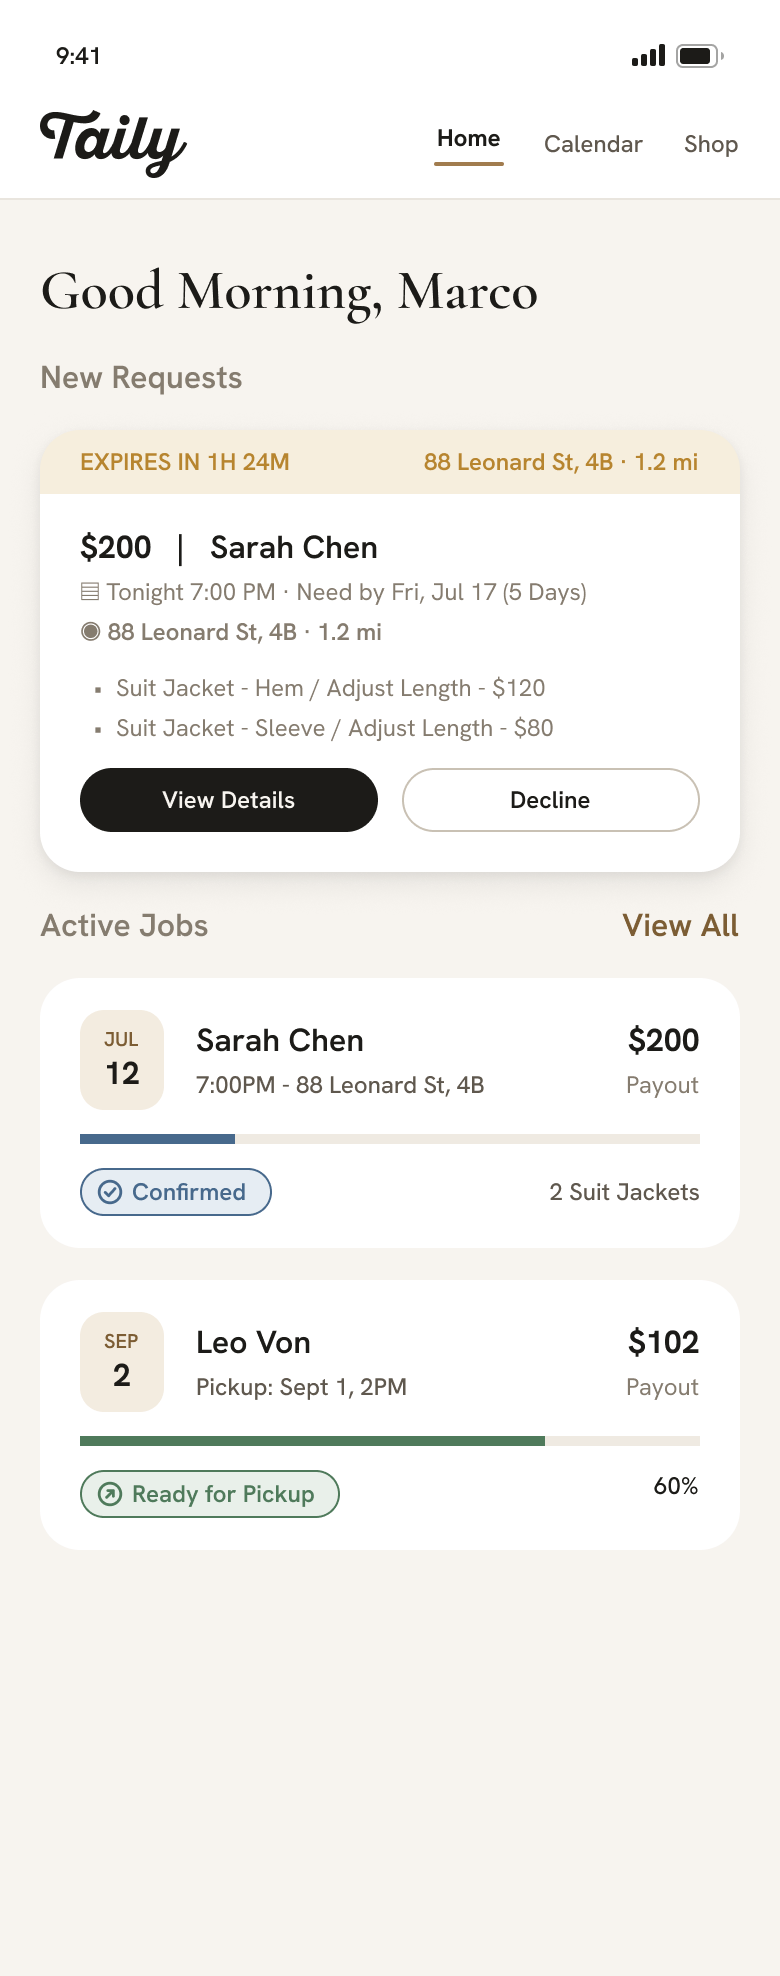
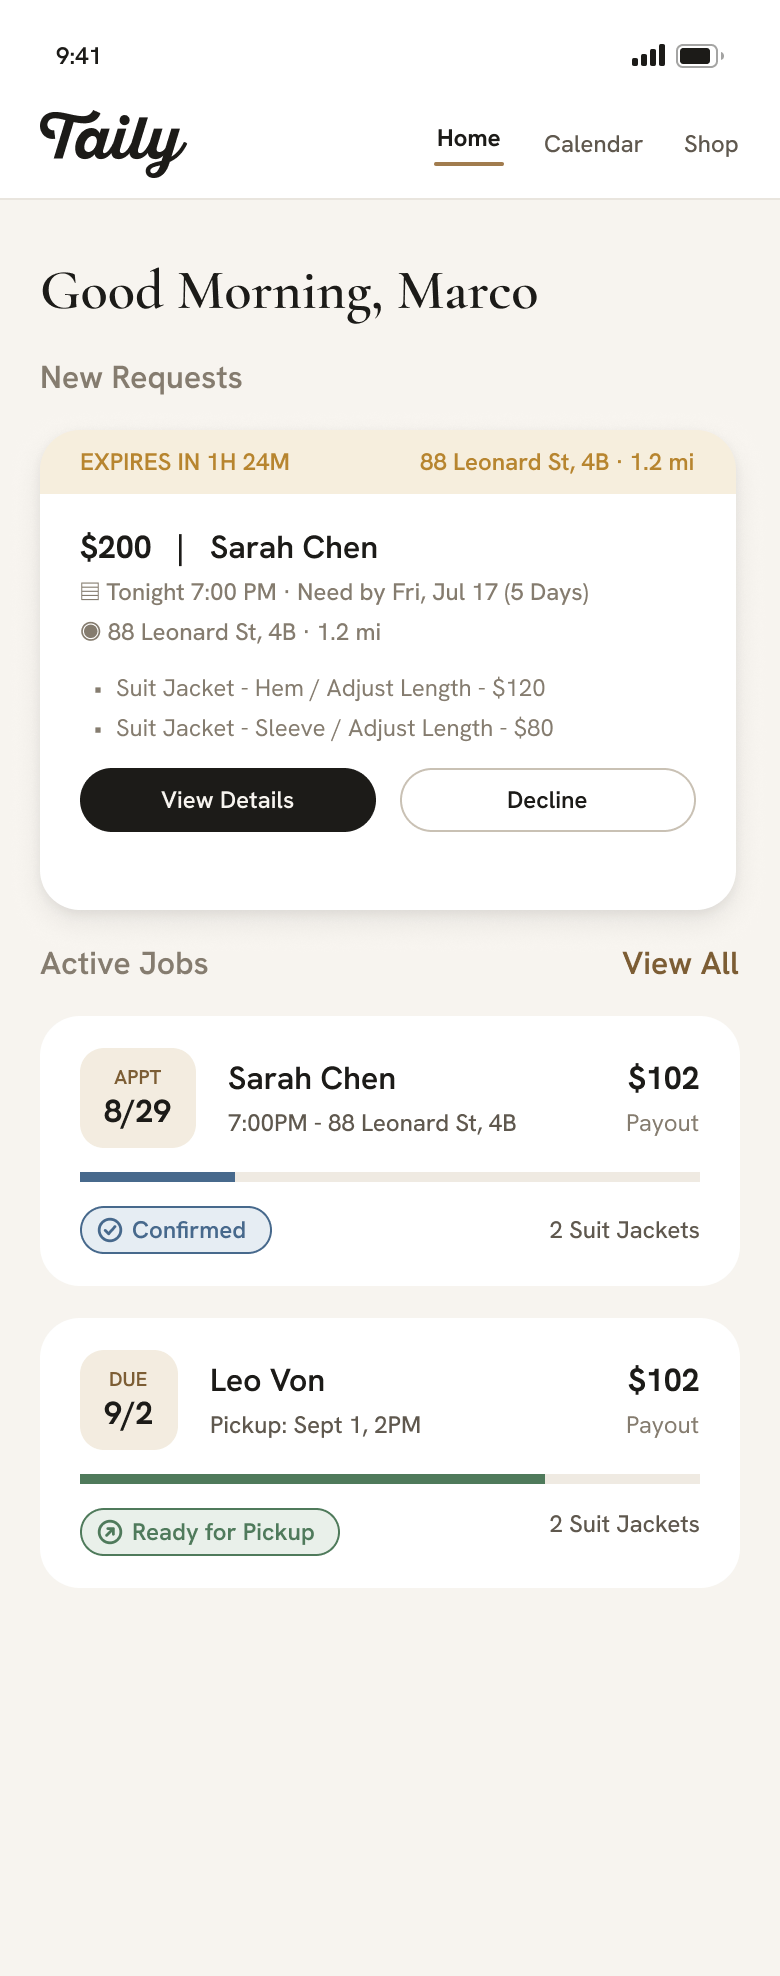
ux-loop: round 11 — Appt_Request component, T02 Request New Time, frames as source of truth
Kevin's tailor edits: T01 request card per the Appt_Request component
(Default / NewTime; View Details + Decline on both, Withdraw lives on
T02); T02 "Request New Time" opens the 02.1 wheel as "Request New Time /
Propose · <day> at <time>" (proposeNewTime, shared with T03A) and lands on
T01; "Done today" → "Past Jobs"; T05 secondary CTA "Edit Details"; T02
Accepted offers Back to Home. Six frames Kevin deleted (T03 Booking
Confirmed, T03A base, T05 Removed, T06 Questions, T06 Awaiting, T05
Resend) leave screens.json / refs / min-heights; their routes stay live.
UX-LOOP.md round 11 carries the redundant / conflicting frame review.

diff --git a/js/screens/t02-appointment-request.js b/js/screens/t02-appointment-request.js
@@ -31,10 +31,11 @@
 
 import { register, render as go, back } from '../app.js';
 import { summaryCard, garmentCard, cta, toast } from '../components.js';
-import { money, garmentAmount } from '../data.js';
+import { money, garmentAmount, fmtDay } from '../data.js';
+import { proposeNewTime } from './t03a-decline-request.js';
 import { state } from '../state.js';
 import { tailorChrome, wireTailorNav, payoutRows } from '../tailor-components.js';
-import { current, jobView, tailorOf, isFixture, isSeed, restartTimer, stampAcceptedPayout, T, CUSTOMER, REQUEST_ROWS } from '../tailor-data.js';
+import { current, jobView, tailorOf, isFixture, isSeed, restartTimer, stampAcceptedPayout, proposalDays, T, CUSTOMER, REQUEST_ROWS } from '../tailor-data.js';
 
 /** The booked order as ViewOnly cards (shared with T03). */
 export function bookedCards(v) {
@@ -69,12 +70,13 @@ export function viewRequest(s, mode = null) {
   const actions = expired
     ? cta('Back to Home', { attrs: 'data-act="home"' })
     : accepted
-      ? cta('Accepted', { attrs: 'data-act="accept"' })
+      ? cta('Back to Home', { attrs: 'data-act="home"' })   /* round 11: the Accepted frame's single CTA */
       : proposed
         ? `${cta('Withdraw Proposal', { attrs: 'data-act="withdraw"' })}
     ${cta('Decline', { variant: 'secondary', attrs: 'data-act="decline"' })}`
         : `${cta(`Accept Request · ${v.money.payout}`, { attrs: 'data-act="accept"' })}
-    ${cta('Decline', { variant: 'secondary', attrs: 'data-act="decline"' })}`;
+    ${cta('Decline', { variant: 'secondary', attrs: 'data-act="decline"' })}
+    ${cta('Request New Time', { variant: 'secondary', attrs: 'data-act="new-time"' })}`;
   return `${tailorChrome('home')}
 <div class="body" data-s="t02-appointment-request">
   <div class="t-header">
@@ -113,6 +115,14 @@ export function wire(root) {
     go('t03-request-accepted', { replace: true });   // R2-T-11: back never re-offers Accept
   });
   root.querySelector('[data-act="decline"]')?.addEventListener('click', () => go('t03a-decline-request'));
+  /* round 11 (Kevin): propose another time straight from the request —
+     the 02.1 wheel ("Propose · …"); a proposal lands on T01 */
+  root.querySelector('[data-act="new-time"]')?.addEventListener('click', () => {
+    const a = current(state);
+    if (!a || jobView(a).canon !== 'searching') { toast('This request is no longer open'); return; }
+    if (!proposalDays(a).length) { toast(`Sarah needs these by ${fmtDay(a.needBy)} — no later slot to offer`); return; }
+    proposeNewTime(a);
+  });
   root.querySelector('[data-act="withdraw"]')?.addEventListener('click', () => {
     const a = current(state);
     if (!a?.proposed || !T.withdrawProposal(a)) { toast('No proposal to withdraw'); return; }

diff --git a/js/tailor-components.js b/js/tailor-components.js
@@ -99,16 +99,15 @@ export function requestCard({
   const key = ` data-req="${idx}"`;
   /* R3-T-03: "$108 · 1 item" — two same-day requests differ by more than the payout */
   const head = `<b>${payout}</b>${count ? `<span class="req-card__count">· ${count}</span>` : ''}`;
-  const actions = proposed
-    ? `<p class="req-card__proposed">Time proposed · ${proposed} — waiting for Sarah</p>
-    <div class="req-card__actions">
-      ${ctaSmall('View Details', { attrs: `data-act="view-details"${key}` }).replace('class="cta-small"', 'class="cta-small cta-small--dark"')}
-      <button type="button" class="t-link req-card__withdraw" data-act="withdraw"${key}>Withdraw</button>
-    </div>`
-    : `<div class="req-card__actions">
+  /* Round 11 (Kevin's Appt_Request component, 659:6509): Default and
+     NewTime variants share the same actions — View Details + Decline;
+     NewTime adds the "Time proposed …" line under the items. Withdraw
+     lives on T02 (Withdraw Proposal), not on the card. */
+  const actions = `<div class="req-card__actions">
       ${ctaSmall('View Details', { attrs: `data-act="view-details"${key}` }).replace('class="cta-small"', 'class="cta-small cta-small--dark"')}
       ${ctaSmall('Decline', { attrs: `data-act="decline"${key}` })}
     </div>`;
+  const proposedLine = proposed ? `<p class="req-card__proposed">Time proposed · ${proposed} — waiting for Sarah</p>` : '';
   return `<article class="req-card"${key}>
   <div class="req-card__timer" data-act="time-passes"${key} title="Demo: time passes"><span data-timer${key}>${expires}</span><span>${where}</span></div>
   <div class="req-card__details">
@@ -116,7 +115,10 @@ export function requestCard({
       <div class="req-card__name">${head}<span>|</span><span>${name}</span></div>
       <div class="req-card__meta"><span>${meta}</span><span>◉ <b>${address}</b></span>${note ? `<span class="req-card__note">${note}</span>` : ''}</div>
     </div>
-    <ul class="req-card__items">${lines.map((l) => `<li>${l}</li>`).join('')}</ul>
+    <div class="req-card__items-block">
+      <ul class="req-card__items">${lines.map((l) => `<li>${l}</li>`).join('')}</ul>
+      ${proposedLine}
+    </div>
     ${actions}
   </div>
 </article>`;

diff --git a/css/tailor.css b/css/tailor.css
@@ -10,8 +10,6 @@
 /* frame heights: shorter than the 844 stage, or dead space below the
    last child (T01 / T03 end well under their frames, like 02) */
 .screen[data-screen="t01-home"] { min-height: 988px; }
-.screen[data-screen="t03-request-accepted"] { min-height: 897.5px; }
-.screen[data-screen="t03a-decline-request"] { min-height: 635.5px; }
 .screen[data-screen="t03b-job-cancelled"] { min-height: 415.5px; }
 .screen[data-screen="t07-job-ready"] { min-height: 640px; }
 .screen[data-screen="t08-job-complete"] { min-height: 595px; }
@@ -24,11 +22,6 @@
 .screen[data-screen="t03b-by-you"],
 .screen[data-screen="t03b-withdrawn"] { min-height: 415.5px; }
 .screen[data-screen="t03b-no-show"] { min-height: 394.5px; }
-.screen[data-screen="t05-removed"] { min-height: 1049.5px; }
-.screen[data-screen="t06-questions"] { min-height: 1554px; }   /* round 10: + Edit Details */
-/* round 10 (Kevin): Edit Details → resend sibling frames */
-.screen[data-screen="t06-awaiting"] { min-height: 1467px; }
-.screen[data-screen="t05-resend"] { min-height: 1263.33px; }
 .screen[data-screen="t07-waiting"] { min-height: 640px; }
 .screen[data-screen="t10-messages"] { min-height: 1103px; }
 [data-s="t03b-job-cancelled"] .status-hero,
@@ -117,6 +110,9 @@
   font-weight: 400;
   color: var(--neutral-500);
 }
+/* round 11: the Items frame holds the list and, on the NewTime variant,
+   the proposed line (SemiBold 12 accent-ink, no bullet) at gap 4 */
+.req-card__items-block { display: flex; flex-direction: column; gap: var(--space-4); }
 .req-card__actions { display: flex; gap: var(--space-12); width: 100%; }
 .req-card__actions .cta-small { padding-block: var(--space-8); }
 .cta-small--dark { background: var(--ink); color: var(--neutral-50); box-shadow: none; }

diff --git a/js/screens/t01-home.js b/js/screens/t01-home.js
@@ -134,7 +134,7 @@ export function viewTailorHome(s) {
     ${active.join('\n    ')}
     ${jobCard({ ...FILLER_JOB, attrs: 'data-act="filler"' })}
   </div>
-  ${done.length ? `${sectionRow('Done today', clearLink, 'clear-done')}
+  ${done.length ? `${sectionRow('Past Jobs', clearLink, 'clear-done')}
   <div class="t-actions t-actions--16 t-done">
     ${done.join('\n    ')}
   </div>` : ''}
@@ -161,11 +161,6 @@ export function wire(root) {
 
   root.querySelectorAll('[data-act="view-details"]').forEach((el) => el.addEventListener('click', () => { setCurrent(at(el)); go('t02-appointment-request'); }));
   root.querySelectorAll('[data-act="decline"]').forEach((el) => el.addEventListener('click', () => { setCurrent(at(el)); go('t03a-decline-request'); }));
-  root.querySelectorAll('[data-act="withdraw"]').forEach((el) => el.addEventListener('click', () => {
-    const a = at(el);
-    /* R3-T-02: Marco's own act — Sarah did nothing */
-    if (T.withdrawProposal(a)) { restartTimer(a); toast('Proposal withdrawn'); rerender(); }
-  }));
   root.querySelectorAll('[data-act="open-job"]').forEach((el) => el.addEventListener('click', () => { const a = at(el); setCurrent(a); go(jobTarget(a)); }));
   root.querySelector('[data-act="filler"]')?.addEventListener('click', () => toast('Leo Von’s job is outside this prototype'));
   root.querySelector('[data-act="view-all"]')?.addEventListener('click', () => toast('All jobs are outside this prototype'));

diff --git a/js/screens/02.1-date-time-sheet.js b/js/screens/02.1-date-time-sheet.js
@@ -136,10 +136,13 @@ function setPillValue(act, value) {
 export function openDateTimeOverlay(mode = 'appt', onSet, opts = {}) {
   const cols = mode === 'custom' ? customWheel(opts.days, opts) : apptWheel(mode);
   const start = pick(cols.map((c) => c.rows[c.sel]));
+  /* round 11 (Kevin): the tailor's proposal reuses this sheet with its
+     own header and CTA verb — `opts.header`, `opts.cta` ("Propose") */
+  const label = (p) => `${opts.cta ?? 'Set Time'} · ${p.day} at ${p.time}`;
   const content = wheelScroll(cols)
-    + cta(`Set Time · ${start.day} at ${start.time}`, { attrs: 'data-act="set-time"' });
+    + cta(label(start), { attrs: 'data-act="set-time"' });
   sheetOverlay(content, {
-    header: mode === 'needby' ? 'Need By' : mode === 'custom' ? 'Custom pickup time' : 'Date &amp; Time',
+    header: opts.header ?? (mode === 'needby' ? 'Need By' : mode === 'custom' ? 'Custom pickup time' : 'Date &amp; Time'),
     variant: 'picker',
     dataS: '02.1-date-time-sheet',
   }, (root, close) => {
@@ -158,7 +161,7 @@ export function openDateTimeOverlay(mode = 'appt', onSet, opts = {}) {
     };
     const updateCta = () => {
       const p = readPick(root, cols);
-      ctaEl.textContent = `Set Time · ${p.day} at ${p.time}`;
+      ctaEl.textContent = label(p);
     };
     // CTA label follows the wheels as they settle (v3 updateWheelCta)
     wireWheel(root, () => { capSlots(); updateCta(); });

diff --git a/js/screens/t03a-decline-request.js b/js/screens/t03a-decline-request.js
@@ -74,7 +74,11 @@ export function viewDecline(s, mode = null) {
 </div>`;
 }
 
-function suggestTime(a) {
+/** Round 11 (Kevin): the proposal wheel — the 02.1 sheet titled
+    "Request New Time" with a "Propose · <day> at <time>" CTA, bounded by
+    Sarah's need-by. Shared by T02's Request New Time and T03A's
+    Schedule-conflict primary; a proposal lands on T01 (the NewTime card). */
+export function proposeNewTime(a) {
   openDateTimeOverlay('custom', (p) => {
     const when = `${p.md}, ${p.time}`;
     if (!T.propose(a, when)) {
@@ -88,16 +92,16 @@ function suggestTime(a) {
     toast(`Proposed ${fmtWhen(when)} — waiting for Sarah`);
     go('t01-home');
   }, {
+    header: 'Request New Time',
+    cta: 'Propose',
     days: proposalDays(a),
     /* R4-U-03 / R4-T-01: on the need-by day only the slots before the
        need-by time */
     hoursFor: (day) => proposalHours(a, day),
     minsFor: (day, hour) => proposalMins(a, day, hour),
   });
-  /* the shared picker is titled for its 05A/05B use; this is a proposal */
-  const title = document.querySelector('#screen .screen-sheet--overlay .sheet__title');
-  if (title) title.textContent = 'Suggest another time';
 }
+const suggestTime = proposeNewTime;
 
 export function wire(root) {
   wireTailorNav(root);

diff --git a/js/flows.js b/js/flows.js
@@ -215,6 +215,7 @@ export const FLOWS = {
         { key: 't-home-request', code: 'T01', title: 'Home — new request', screen: 't01-home', setup: (a) => asRequest(a) },
         { key: 't-request', code: 'T02', title: 'Appointment request', note: 'Payout and no-show protection', screen: 't02-appointment-request', setup: (a) => asRequest(a) },
         { key: 't-request-expired', code: 'T02', title: 'Request expired', screen: 't02-appointment-request', setup: (a) => { asRequest(a); expireAppointment(a); } },
+        { key: 't-request-new-time', code: 'T02', title: 'Request new time', note: 'The propose wheel', screen: 't02-appointment-request', setup: (a) => asRequest(a), click: ['[data-act="new-time"]'] },
         { key: 't-accepted', code: 'T03', title: 'Booking confirmed', note: 'Right after Accept', screen: 't03-request-accepted', setup: (a) => { accepted(a); tailorOf(a).justAccepted = true; } },
         { key: 't-decline', code: 'T03A', title: 'Decline request', screen: 't03a-decline-request', setup: (a) => asRequest(a) },
         { key: 't-suggest-time', code: 'T03A', title: 'Decline — suggest another time', note: 'Schedule conflict selected', screen: 't03a-decline-request', setup: (a) => { asRequest(a); tailorOf(a).declineReason = 0; } },

diff --git a/js/screens/t05-confirm-final-pricing.js b/js/screens/t05-confirm-final-pricing.js
@@ -3,7 +3,7 @@
    "Confirm Details" + "Reviewed with Sarah at the visit"; the draft
    order with what changed at the visit in semantic/info (card 1's
    added Sleeve + $200, the added third jacket), fee rows,
-   Send to Sarah for Approval / Review Details. Active=T-Calendar.
+   Send to Sarah for Approval / Edit Details (round 11, was Review Details). Active=T-Calendar.
 
    UX-LOOP R1-T-03/06/07: Send writes the draft into a.garments /
    a.totals (the shared final order), runs completeAppointment(),
@@ -55,7 +55,7 @@ export function viewPricing(s, forced = null) {
   <div class="t-actions">
     ${payoutChangeRow(payoutChange(a, draft, forced ? orderMoney(forced.booked).payout : undefined))}
     ${cta(resend ? 'Resend to Sarah for Approval' : 'Send to Sarah for Approval', { attrs: 'data-act="send"' })}
-    ${cta('Review Details', { variant: 'secondary', attrs: 'data-act="review"' })}
+    ${cta('Edit Details', { variant: 'secondary', attrs: 'data-act="review"' })}   <!-- round 11: Kevin renamed Review Details -->
   </div>
 </div>`;
 }

diff --git a/UX-LOOP.md b/UX-LOOP.md
@@ -1013,3 +1013,73 @@ commit; verification review of the sync (both flows, parity-focused).
 - The resend note copy is mine: "I updated the order — please take another look and approve it
   when it looks right." and the 04 line "Marco updated the order on <day>. Changes are highlighted
   below."
+
+
+## Round 11 — Kevin's tailor edits: Appt_Request component, Request New Time, frame cleanup (Sep 13 2026)
+
+### Kevin's asks and answers
+- **Appt_Request component** (Components page 659:6509, `Property 1 = Default | NewTime`) is the
+  T01 request card; T01 / Closed Rows uses NewTime. Both variants end in View Details + Decline;
+  NewTime adds "Time proposed · … — waiting for Sarah" under the items. Answer: **Decline on the
+  card opens T03A** (reasons), like T02's Decline.
+- **T02 "Request New Time"** (third CTA, secondary): opens the 02.1 date & time sheet as
+  "Request New Time" with a **Propose · <day> at <time>** CTA; proposing lands on T01 with the
+  NewTime card. Answer: **keep both** entry points — T03A's Schedule-conflict primary uses the
+  same wheel (`proposeNewTime` in t03a-decline-request.js).
+- **Frames as the source of truth**: Kevin deleted T03 Booking Confirmed, T03A Decline (base),
+  T05 Removed, T06 Sarah Has Questions and round 10's T06 Awaiting Approval / T05 Resend. Answer:
+  follow the frames; **review** other redundant / conflicting frames (list below), no deletions
+  by me.
+- **T01**: build to the new frames now — "Done today" is **Past Jobs** (Clear kept); the Active
+  Jobs list follows the frame.
+
+### Results
+- `requestCard` (tailor-components) renders the component: Timer strip / $payout | name / meta
+  rows / items (+ the NewTime line in `.req-card__items-block`) / View Details + Decline. Withdraw
+  is T02's **Withdraw Proposal** only (the card's link is gone).
+- `openDateTimeOverlay` gained `opts.header` / `opts.cta` (the verb before "· <day> at <time>");
+  `proposeNewTime(a)` (exported from t03a) titles it "Request New Time" / "Propose", bounded by
+  Sarah's need-by (day + time), restarts the request timer and lands on T01. T02's new CTA calls
+  it (toasts when the request is no longer open or no slot before the need-by remains).
+- T01: "Past Jobs" section (rows unchanged: delivered, cancelled-by-you, no-show · $X, withdrawn,
+  expired; Clear). The base frame's Sarah card is an un-overridden Active Job Card (APPT / 8/29 /
+  $102) — built live (JUL 12 / $200 / Confirmed), parity ALLOWs the defaults, baseline 2.19.
+- Harness: the six deleted frames left `screens.json` (60 screens), their refs and route
+  min-heights are gone; their routes stay registered (Test flows menu). New flow entry
+  `t-request-new-time` (T02 → the propose wheel). Tailor / sync click-throughs withdraw via T02.
+  Refs re-exported: T01, T01 Closed Rows, T02 (baselines 2.19 / 1.80 / 14.36 — the T02 fast-build
+  baseline was 15.06).
+
+### Frame review — redundant or conflicting (no deletions made; your call)
+Rule I applied when reading: a sibling frame earns its place when it changes LAYOUT (rows added,
+a section, a different card); a frame that differs only by copy, a pill or one CTA is a code
+state the Test flows menu already covers.
+- **Copy-only siblings (candidates to delete):** tailor `T02 / Accepted`, `T02 / Expired`,
+  `T03B / By You`, `T03B / No-Show`, `T03B / Withdrawn`, `T07 / Waiting`, `T03A / Suggest Time`
+  (T02's Request New Time now covers the path; T03A's primary flips label only); user
+  `03 / Confirmed Locked`, `03 / Reminder Locked` (pill + callout only), `05.1 / Dated`,
+  `03.3 / Booking` (the same viewer minus the legend).
+- **Stray:** `01 - Home` (455:2081) sits on the tailor page — a copy of the user Home, not keyed
+  to any route.
+- **Conflicts to resolve:**
+  - `T01 - Home / View Requests` (the base T01, 455:3560): Sarah's Active Job Card is
+    un-overridden — reads APPT / 8/29 / $102 where the fiction is JUL 12 / $200; Leo Von's reads
+    DUE / 9/2 (the master's default) where every other frame says SEP 2.
+  - Active Job Card master (470:3993): the items label was re-created and defaults to "2 Suit
+    Jackets"; T06's instance carries the "3 Suit Jackets" override (three jackets after the visit).
+  - `02 - Appointment Details` (657:4875): card 2 has no service line ($80 with no job); the
+    Additional Service selector is a detached 155×29 frame where the Selector master is 159×32.
+  - `03 - Order Status / New Time` inherits 03/Requested's stale "Thu, Jul 9 · 9:30 AM" fixture
+    (ALLOW'd since round 3).
+  - `T03A / Suggest Time` vs T02's new CTA: two entry points to one wheel (you chose to keep both).
+- **Kept as-is (they change layout):** T01 / Closed Rows, T03A / Other, T03.1, T03 / Upcoming
+  Visit, 03 Expired / Declined / Tailor Cancelled / No-Show / New Time / Unconfirmed, 04 Removed /
+  Re-tiered, 09 Closed Cards, 02.1–02.4, 03.1–03.3, 04.1, 05.1, 06.1.
+
+### Flags (low)
+- **Sibling / base conflict (untracked edit):** T02 / Accepted, T02 / Expired and T03 / Upcoming Visit now end the address row with "· 1.2 mi" ("·1.2 mi", no space, on Expired and T03) while the T02 base row is "◉ 88 Leonard Street, 4B". Built to the base; parity ALLOWs the three siblings.
+- **Adopted from your latest edits:** T05's secondary CTA reads "Edit Details" (was Review Details); T02 / Accepted's single CTA is "Back to Home" (the build's accepted state now offers it instead of the inert "Accepted").
+- Kevin wrote "Propose - (time)"; built "Propose · Sun, Jul 12 at 10:00 AM" (the app's middle
+  dot and the sheet's day/time grammar).
+- The T02 CTA is inert once a proposal is out (T02 then shows Withdraw Proposal / Decline, as
+  before) and toasts when no slot before the need-by is left.

diff --git a/CLAUDE.md b/CLAUDE.md
@@ -213,3 +213,11 @@ Page **"Tailor - Main Flow 2"** (`445:1491`) was designed by Kevin ahead of the 
 - **03/Requested rows:** `✂ 2 items · $200.00+ est.` and `🏠 $25 visitation fee` (fee row on its own; 03/New Time split the same way).
 - **Tailor edit-and-resend:** T06 shows **Edit Details** while awaiting approval → `reopenDraft(a)` (draft from the SENT order, ids kept) → T04 → T05 in resend mode ("Updated after sending · Payout $X", **Resend to Sarah for Approval**) → `resendFinalOrder(a, draft)`: writeFinalOrder, `a.resentAt` / `resendCount`, clears `changesRequestedAt`, queues `a.pendingTailorNote` (10-messages pushes it as a tailor bubble). Customer 04 adds "Marco updated the order on <day>. Changes are highlighted below." Frames: T06 / Sarah Has Questions gained Edit Details; new `T06 - Appointment Status / Awaiting Approval` (666:4837 → `t06-awaiting`), `T05 - Confirm Final Pricing / Resend` (666:4979 → `t05-resend`).
 - The tailor Active Job Card master's items label was re-created by Kevin ("2 Suit Jackets" default, 659:5821); T06 instances carry the "3 Suit Jackets" override. Flows menu: `c-resent`, `t-edit-details`, `t-resend`, `t-status-resent` (`c-awaiting` retired).
+
+### UX-LOOP round 11 — Appt_Request component, Request New Time, frame cleanup (tailor)
+
+- **Appt_Request** (Components page 659:6509, `Property 1 = Default | NewTime`) is the T01 request card: Timer strip / $payout | name / meta rows / items (+ "Time proposed · … — waiting for Sarah" in `.req-card__items-block` on NewTime) / **View Details + Decline** on both variants. Decline on the card → T03A. **Withdraw lives on T02 only** (Withdraw Proposal).
+- **Request New Time** (T02, third CTA, secondary; pending requests only): `proposeNewTime(a)` (exported from t03a-decline-request.js, also T03A's Schedule-conflict primary — both entry points kept) opens the 02.1 sheet with `opts.header = 'Request New Time'` / `opts.cta = 'Propose'` (CTA "Propose · <day> at <time>"), bounded by the need-by, restarts the timer, lands on T01 (NewTime card).
+- T01's third section is **Past Jobs** (was "Done today"; Clear kept).
+- **Frames are the source of truth (Kevin):** T03 Booking Confirmed, T03A Decline (base), T05 Removed, T06 Sarah Has Questions, T06 Awaiting Approval and T05 Resend were deleted — their routes stay registered (Test flows menu) but left `screens.json` / refs / min-heights. Do not recreate sibling frames for copy-only states; UX-LOOP.md round 11 lists the remaining candidates and conflicts for Kevin.
+- T01's base frame is now named "T01 - Home / View Requests"; its Sarah job card is an un-overridden Active Job Card (APPT / 8/29 / $102) — built live, parity ALLOWs the defaults.
